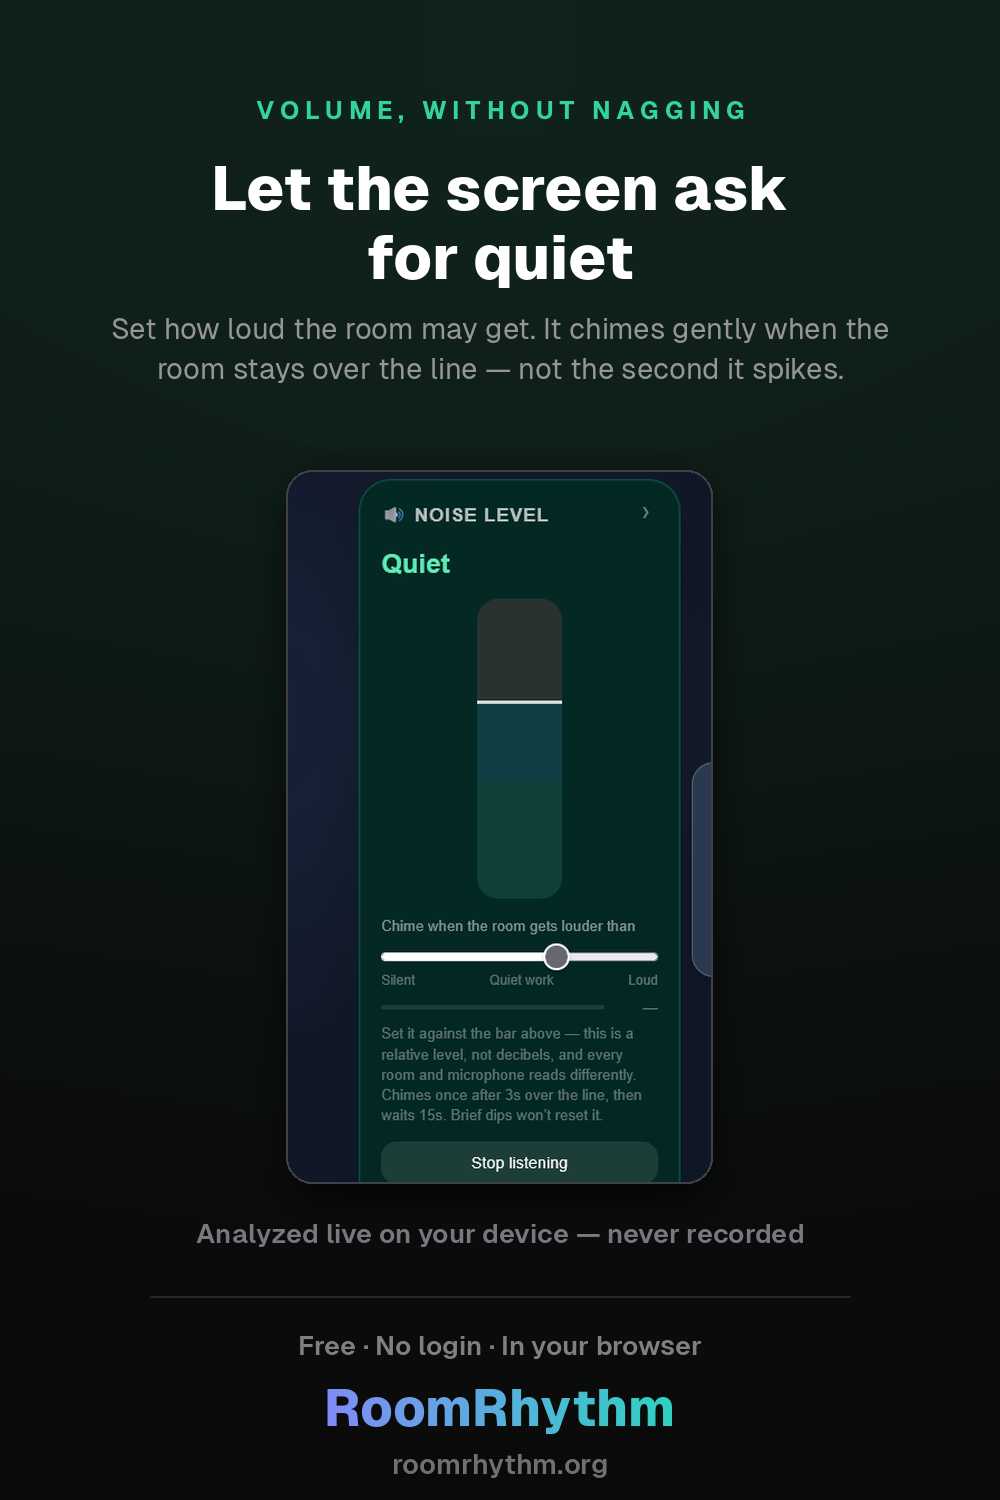
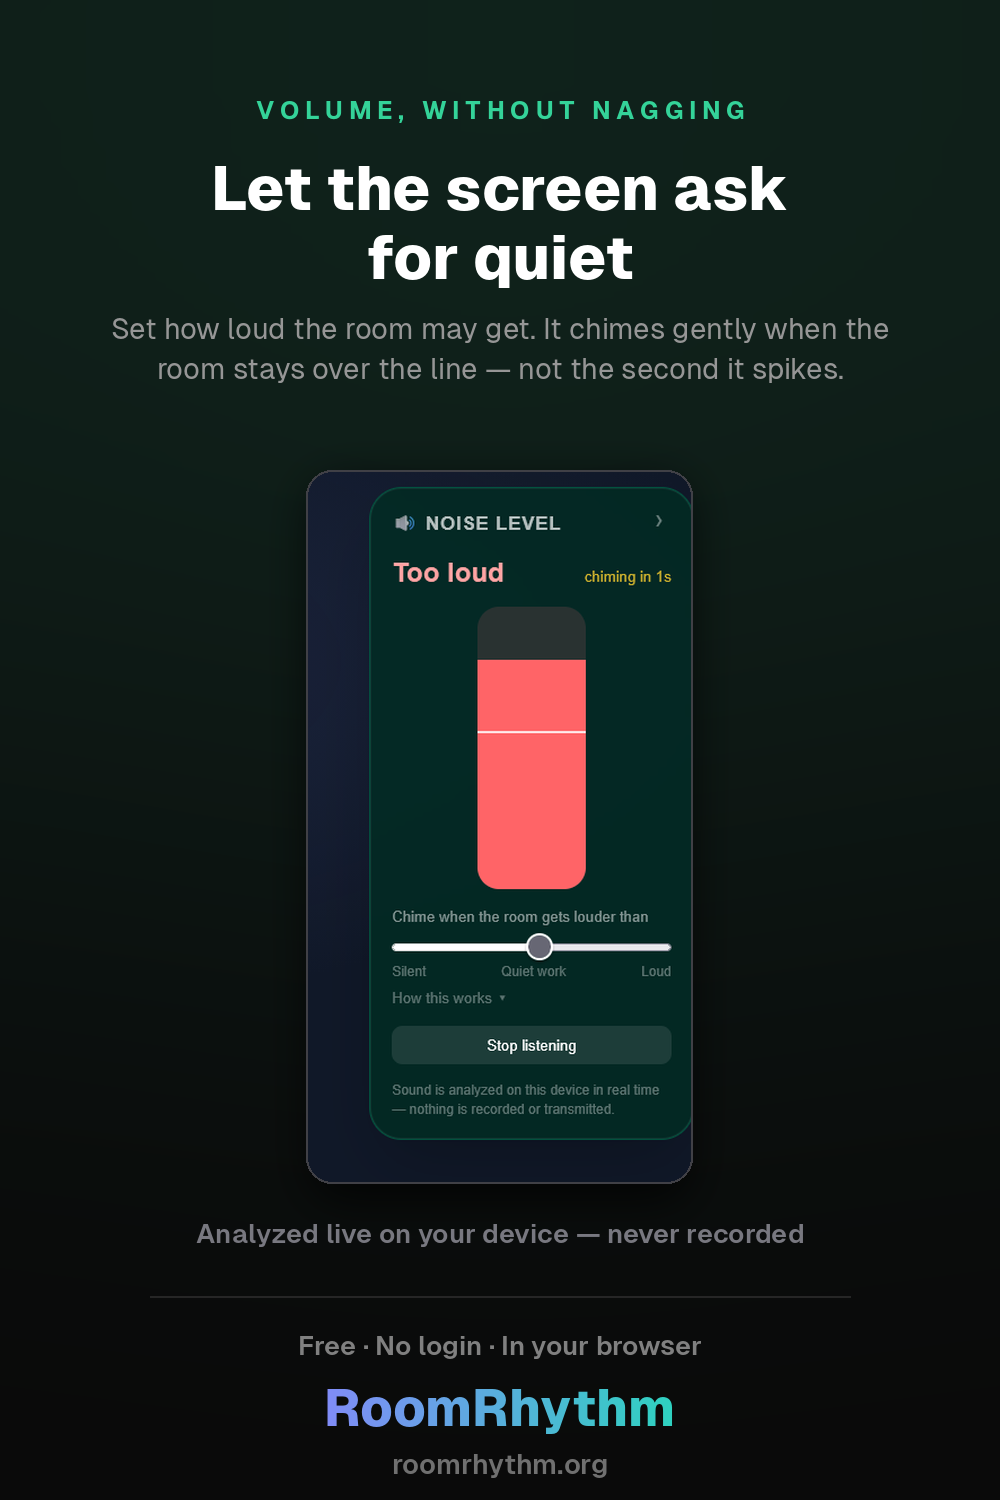
Re-render pin 9 from the working meter
The old shot showed the meter reading Quiet with a stub of a bar,
because on the linear scale a real room could not move it. This one
shows the corrected build actually doing its job: Too loud, red, over
the line, with the chime counting down. That is the proof the pin is
supposed to carry.

Changed region(s): [[0.372, 0.3067, 0.713, 0.7973], [0.279, 0.3067, 0.31, 0.7973]]

diff --git a/marketing/render/rr_shot_pins.py b/marketing/render/rr_shot_pins.py
@@ -161,7 +161,7 @@ FOCUS   = "Screenshot 2026-08-13 232306.png"   # projector, 18:30
 BREAK   = "82b58445-8168-4f3b-91aa-4c30900292aa-1786776612856_image.png"  # brain break, re-shot Aug 14
 EXAM    = "Screenshot 2026-08-13 232626.png"   # two timing groups
 NAMES   = "Screenshot 2026-08-13 233227.png"   # random name panel
-NOISE   = "Screenshot 2026-08-13 233356.png"   # noise level panel
+NOISE   = "Screenshot 2026-08-15 192641.png"   # noise panel, re-shot Aug 15 (taller bar, "Too loud")
 
 
 def pin_focus():
@@ -220,7 +220,7 @@ def pin_noise():
     y = headline(img, ["Let the screen ask", "for quiet"], 152)
     subline(img, "Set how loud the room may get. It chimes gently when the room "
                  "stays over the line — not the second it spikes.", y + 22)
-    b = place_shot(img, NOISE, (470, 1248), crop=(0.0, 0.0, 1.0, 0.885), max_w=430)
+    b = place_shot(img, NOISE, (470, 1248), crop=(0.03, 0.02, 0.80, 0.99), max_w=470)
     caption(img, "Analyzed live on your device — never recorded", b + 34)
     footer(img)
     save(img, f"{OUT}/pin-9-noise-level.png")
